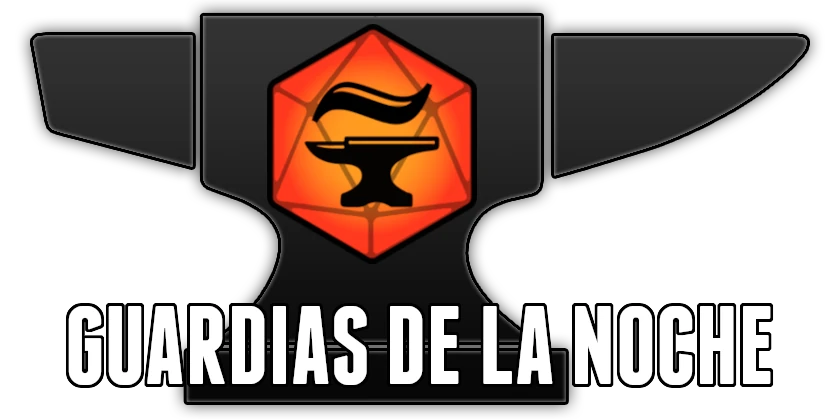
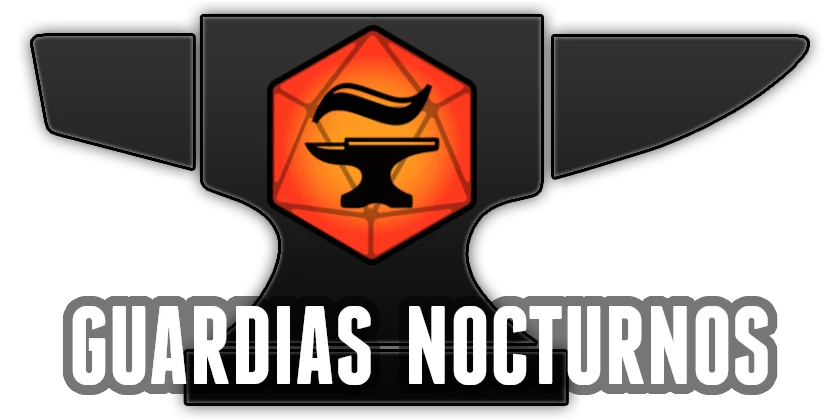
Changed de la noche por nocturnos

diff --git a/fvtt-module-investigator-es.js b/fvtt-module-investigator-es.js
@@ -44,7 +44,7 @@ Hooks.once("renderCompendiumDirectory", () => {
       Ninguno: "Ninguno",
       cuchillas: "Cuchillas Viperinas",
       esoscriminales: "Esoscriminales",
-      guardias: "Guardias de la noche",
+      guardias: "Guardias nocturnos",
       miedo: "Miedo ensimismado",
       sendero: "El sendero de Cthulhu",
     },
